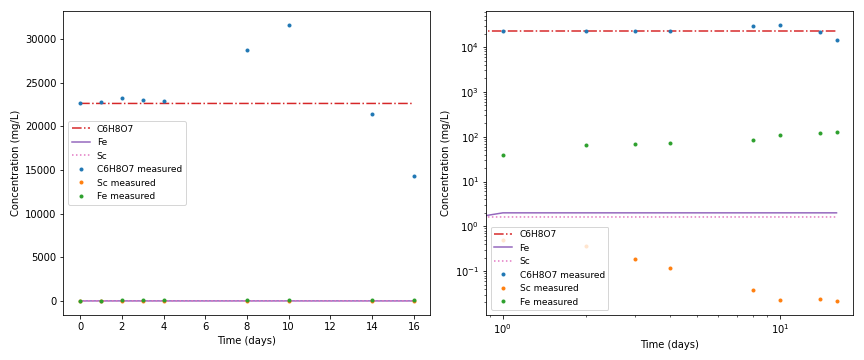
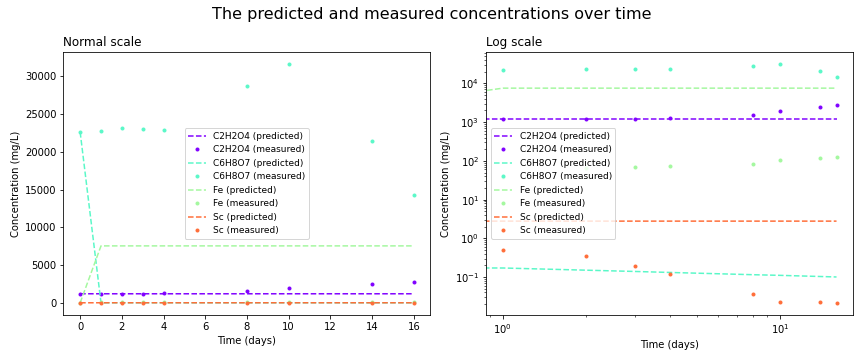
Build acid production model

diff --git a/src/rate_optimiser.py b/src/rate_optimiser.py
@@ -6,7 +6,6 @@ from chempy import ReactionSystem
 from chempy.kinetics.ode import get_odesys
 import numpy as np
 from scipy.optimize import basinhopping
-# from chempy.units import SI_base_registry, default_units
 import matplotlib.pyplot as plt
 
 
@@ -73,7 +72,7 @@ class RateOptimiser:
             {'ScO(OH)': 1, 'C6H8O7': 3},
             # {'ScO(OH)': 2, 'C6H8O7': 3},
             # {'ScO(OH)': 3, 'C6H8O7': 3},
-            {'Fe2O3': 1, 'H+': 6},
+            {'Fe2O3': 1, 'C6H8O7': 6},
             # {'Fe2O3': 1, 'C6H8O7': 3},
             # {'Fe2O3': 3, 'C6H8O7': 6}
             # Oxalic acid
@@ -85,7 +84,7 @@ class RateOptimiser:
             {'Sc': 1, 'C6H7O7': 3 }, #,'H2O': 2}, # }, 
             # {'Sc': 2, 'C6H6O7': 3 }, #, 'H2O': 4},
             # {'Sc': 3, 'C6H5O7': 3 }, #, 'H2O': 6},
-            {'Fe': 2, 'C6H7O7': 6 }, # 'H2O': 3}, #
+            {'Fe': 2, 'C6H7O7': 3 }, # 'H2O': 3}, #
             # {'Fe': 2, 'C6H6O7': 3 }, #, 'H2O': 3},
             # {'Fe': 6, 'C6H5O7': 6 } #, 'H2O': 9}
             # Oxalic acid
@@ -246,7 +245,7 @@ class RateOptimiser:
 
 #------------------------------------------------------------------------------------------
 
-    def save_results( self, eval_times=None, predicted=True, measured=True ):
+    def save_results( self, eval_times=None, ignore=None, predicted=True, measured=True ): 
 
         # Update predicted states, if required
         if eval_times is None:
@@ -271,8 +270,9 @@ class RateOptimiser:
         np.savetxt('results/kinetics/optimal_rate_params.csv', self.optimal_rate_params, delimiter=',')
 
         # Plot predicted and measured states
+        if ignore is None:
+            ignore = [ s for s in self.species if s not in self.species_m]
         colours = plt.cm.rainbow(np.linspace(0, 1, len(self.species)))
-        ignore = ['H2O', 'ScO(OH)', 'C6H7O7', 'C6H6O7', 'C6H5O7', 'OH', 'Fe2O3']
         fig, axes = plt.subplots(1, 2, figsize=(12, 5))
         for ax in axes:
             # Plot predicted states
@@ -320,32 +320,9 @@ class RateOptimiser:
         # Adjust 2nd axis scale
         _ = axes[1].set_xscale('log')
         _ = axes[1].set_yscale('log')
+        axes[0].set_title('Normal scale', loc='left')
+        axes[1].set_title('Log scale', loc='left')
         # Tidy and save
+        fig.suptitle( 'The predicted and measured concentrations over time', fontsize=16 )
         _ = fig.tight_layout()
         _ = fig.savefig('results/plots/test_k_optimal_predicted.png', dpi=72)
-
-        # # Plot measured states
-        # fig, axes = plt.subplots(1, 2, figsize=(12, 5))
-        # for ax in axes:
-        #     for i, s in enumerate( self.species_m ):
-        #         ax.plot( 
-        #             self.eval_times, \
-        #             self.states_m[:, i], \
-        #             linestyle = 'None', \
-        #             marker='.', \
-        #             label=s 
-        #         )
-        #     # ax.plot( 
-        #     #     self.eval_times, \
-        #     #     self.states_m[:, 1], \
-        #     #     linestyle = 'None', \
-        #     #     marker='.', \
-        #     #     label='Sc' )
-        #     _ = ax.legend(loc='best', prop={'size': 9})
-        #     _ = ax.set_xlabel('Time (days)')
-        #     _ = ax.set_ylabel('Concentration (mg/L)')
-        # # _ = axes[1].set_ylim([1e-5, 1e4])
-        # _ = axes[1].set_xscale('log')
-        # _ = axes[1].set_yscale('log')
-        # _ = fig.tight_layout()
-        # _ = fig.savefig('results/plots/measured_data.png', dpi=72)

diff --git a/src/growth_model_yale.py b/src/growth_model_yale.py
@@ -1,0 +1,94 @@
+#39;#39;#39;A. niger
+# Luideking Piret + Contois growth
+# Considers glucose and oxygen as substrate#39;#39;#39;
+import matplotlib.pyplot as plt
+import numpy as np
+from scipy.integrate import odeint
+
+#39;#39;#39;Initialisation X- biomass, DO - dissolved oxygen, S- substrate
+# (glucose), P - gluconic acid #39;#39;#39;
+X0 = 0.04 #g/L
+DO0 = 0.0065 #g/L
+S0 = 150 #g/L
+P0 = 0 #g/L
+#39;#39;#39;Mass balance equations from Znad paper. Values for fitting parameters
+# taken directly#39;#39;#39;
+umax = 0.361 # /h
+Ks = 21.447 # g/L
+Ko = 0.001061
+alpha = 2.58
+beta = 0.1704 # /h
+q = 2.17680
+r = 0.29370
+s = 0.2724
+v = 0.0425
+Mo = 16 # g/mol molar mass oxygen
+Mga = 196.16 # g/mol molar mass gluconic acid
+kla = 63 # h-1
+csat = 0.0065 # guess
+tx = np.array([0.181818, 3.09091, 7.09091, 10, 13.0909, 16.1818, 19.0909,
+22.1818, 25.0909, 28.1818, 31.0909, 34.1818, 37.0909, 40.5455, 43.4545,
+46.5455, 49.4545, 52.5455, 54.5455])
+Xy = np.array([0.0725806, 0.326613, 1.19758, 2.28629, 2.97581, 4.1371,
+4.57258, 6.13306, 5.95161, 6.75, 7.33065, 6.89516, 6.60484, 7.1129,
+7.33065, 7.22177, 7.33065, 7.47581, 7.72984])
+Sy = np.array([150.539, 144.564, 142.573, 135.602, 132.614, 126.141,
+127.137, 123.154, 117.676, 114.689, 109.71, 100.747, 88.2988, 83.8174,
+84.3154, 73.8589, 60.9129, 49.4606, 45.9751])
+Py = np.array([0, 1.83406, 4.58515, 7.64192, 9.47598, 17.1179, 19.2576,
+17.4236, 26.8996, 30.262, 35.7642, 39.738, 43.4061, 48.6026, 51.3537,
+56.2445, 57.7729, 60.8297, 68.7773])
+
+def MICROBIAL(f,t):
+    X = f[0]
+    S = f[1]
+    DO = f[2]
+    P = f[3]
+    u = umax*(S/(Ks*X+S))*(DO/(Ko*X+DO))
+    ddt0 = u*X #dXdt
+    rs = -q * ddt0 - r * X
+    ddt1 = rs #dSdt
+    ddt2 = kla*(csat - DO) - s*ddt0 - v*X
+    rp = alpha * ddt0 + beta * X
+    ddt3 = rp #dPdt
+    ddt = [ddt0, ddt1, ddt2, ddt3]
+    return ddt
+
+b0 = [X0, S0, DO0, P0]
+t = np.linspace(0.01,55,55)
+t0 = [0,0]
+g = odeint(MICROBIAL,b0,t)
+cX = g[:,0]
+cS = g[:,1]
+cDO = g[:,2]
+cP = g[:,3]
+quot;quot;quot;plt.figure(1)
+plt.plot(t,cX,#39;r#39;)
+plt.plot(t,cS,#39;b#39;)
+#plt.plot(t,cP,#39;g#39;)
+plt.xlabel(#39;Time (days)#39;)
+plt.ylabel(#39;Concentration (g/L)#39;)
+plt.legend([#39;X#39;,#39;S#39;])quot;quot;quot;
+plt.figure(1)
+plt.plot(tx, Xy, #39;o#39;)
+plt.plot(t,cX,#39;g#39;)
+plt.xlabel(#39;Time (hours)#39;)
+plt.ylabel(#39;Biomass Concentration (g/L)#39;)
+#plt.legend([#39;P#39;])
+plt.figure(2)
+plt.plot(tx, Py, #39;o#39;)
+plt.plot(t,cP,#39;g#39;)
+plt.xlabel(#39;Time (hours)#39;)
+plt.ylabel(#39;Gluconic Acid Concentration (g/L)#39;)
+#plt.legend([#39;P#39;])
+plt.figure(3)
+plt.plot(tx, Sy, #39;o#39;)
+plt.plot(t,cS,#39;g#39;)
+plt.xlabel(#39;Time (hours)#39;)
+plt.ylabel(#39;Glucose Concentration (g/L)#39;)
+#plt.legend([#39;P#39;])
+plt.figure(4)
+plt.plot(t,cDO,#39;g#39;)
+plt.xlabel(#39;Time (hours)#39;)
+plt.ylabel(#39;DO Concentration (g/L)#39;)
+plt.show()

diff --git a/src/acid_production.py b/src/acid_production.py
@@ -1,0 +1,99 @@
+# ORGANIC ACID PRODUCTION OF ASPERGILLUS NIGER
+
+
+# Imports
+from scipy.integrate import odeint
+from scipy.optimize import curve_fit
+import numpy as np
+
+
+# Fixed model parameters
+umax = 0.361 # /h
+Ks = 21.447 # g/L
+q = 2.17680
+r = 0.29370
+
+# Initial guess of fixable parameters
+
+
+class AcidAniger:
+    
+    def input( self, measurements ):
+
+        # Set input attributes
+        setattr( self, 'states_m', measurements[0][:, 1:] ) # measured states
+        setattr( self, 'species_m', measurements[1][1:] ) # measured species
+        setattr( self, 'eval_times', measurements[0][:, 0] ) # times at which to evaluate the soln
+
+
+    def ode_system( self, f, t, args ):
+        ''' 
+        System of differential equations for:
+        1) Biomass production, x (Monod dynamics assumed)
+        2) Substrate consumption, s
+        3) Organic acid production, p
+            pci -> citric acid
+            pox -> oxalic acid
+            pgl -> gluconic acid
+        '''
+        # Element-wise unpacking of vectorised solution, f 
+        x = f[0]
+        s = f[1]
+
+        # Biomass production rate
+        u = umax*(s/(Ks*x+s))
+        dxdt = u*x
+        # Substrate consumption rate
+        rs = -q * dxdt - r * x
+        dsdt = rs
+        # Acid production rates
+        dpdt = [ args[i] * dxdt + args[i+1] * x for i in [0, 2, 4] ]
+        
+        # ODE system
+        dfdt = [dxdt, dsdt, *dpdt]
+        return dfdt
+
+
+    def set_initial_conditions( self, f0 ):
+        setattr( self, 'f0', f0 )
+
+
+    def solve_system( self, t, *args ):
+        '''
+        Solves the ODE system for all variables 
+        given the model parameters
+        '''
+        if isinstance( t, float ) or isinstance( t, int ):
+            t = [t]
+        
+        f_full = odeint(
+            self.ode_system,
+            self.f0,
+            t,
+            args=args
+        )
+        return f_full
+
+    def solve_system_visible( self, t, *args ):
+
+        f_full = self.solve_system( t, *args )
+        f_reduced = np.delete( f_full, [0, 1], 1 )
+        
+        return f_reduced
+
+
+
+        # b0 = [X0, S0, DO0, P0]
+        # t = np.linspace(0.01,55,55)
+        # t0 = [0,0]
+        # g = odeint(MICROBIAL,b0,t)
+
+
+    def fit( self, params_0 ):
+        
+        f = self.solve_system_visible
+        xdata = self.eval_times
+        ydata = self.states_m
+        popt, pcov = curve_fit(f, xdata, ydata, params_0)
+
+        return popt, pcov

diff --git a/get_acids.py b/get_acids.py
@@ -1,0 +1,44 @@
+
+# Setup 
+from src.acid_production import AcidAniger
+from src.utils import load_csv
+import numpy as np
+a = AcidAniger()
+
+
+# Load input
+a.input( load_csv( csv_name='acid_production/measured_data' ) )
+print('\nMeasured species\n', a.species_m)
+print('Measured states\n', a.states_m)
+print('Evaluation times\n', a.eval_times)
+
+
+# Set initial conditions
+x0 = 4 # mg/L
+s0 = 625000 # [substrate] at t=0 (sucrose) mg/L
+p0 = [ a.states_m[0, i] for i in range(0,3) ] # mg/L
+f0 = [x0, s0, *p0]
+a.set_initial_conditions( f0 )
+print( 'Initial conditions\n', f0 )
+
+
+# Test solution with random model params
+t = np.linspace(0,50,100)
+params_0 = [ 2.58, 0.1704, 1, 0.2, 3, 0.4 ] 
+f_full = a.solve_system( t, params_0 )
+f_reduced = a.solve_system_visible( t, params_0 )
+print( f_reduced )
+
+
+# Fit solution to measured data
+popt, pcov = a.fit( params_0 )
+
+
+
+
+import matplotlib.pyplot as plt
+
+plt.figure()
+for i in range(0, 3):
+    plt.plot( t, f_reduced[:, i] )
+plt.show()

diff --git a/get_kinetics.py b/get_kinetics.py
@@ -2,10 +2,7 @@
 # ESTIMATING THE KINETIC PARAMETERS FOR SULFIDE MINERAL BIOLEACHING SYSTEM
 #------------------------------------------------------------------------------------------
 
-import numpy as np
-
 # Setup
-
 from src.rate_optimiser import RateOptimiser
 from src.utils import load_csv, fetch_initial_states
 
@@ -23,9 +20,10 @@ for rxn in ropter.reaction_system.rxns:
 #------------------------------------------------------------------------------------------
 
 ropter.input( 
-    load_csv( csv_name='measured_data' ),
-    fetch_initial_states( ropter.species, csv_name='c0_base_best' ) 
+    load_csv( csv_name='measured_data_oxalic' ),
+    fetch_initial_states( ropter.species, csv_name='c0_base_test_oxalic' ) 
 ) 
+
 #------------------------------------------------------------------------------------------
 
 # Checks 
@@ -56,6 +54,7 @@ ropter.save_results(
     #     np.logspace(-5, -3, base=2),
     #     # ))
     # # ),
+    #ignore=[],
     predicted=True, 
     measured=True
 )

diff --git a/src/utils.py b/src/utils.py
@@ -9,7 +9,6 @@ def load_csv( csv_name='measured_data' ):
             if i == 0:
                 header = list( line.strip().split(',') )
                 continue
-            print(line)
             row = [float(item) for item in line.strip().split(',')]
             matrix.append(row)
     matrix = np.asarray( matrix )
